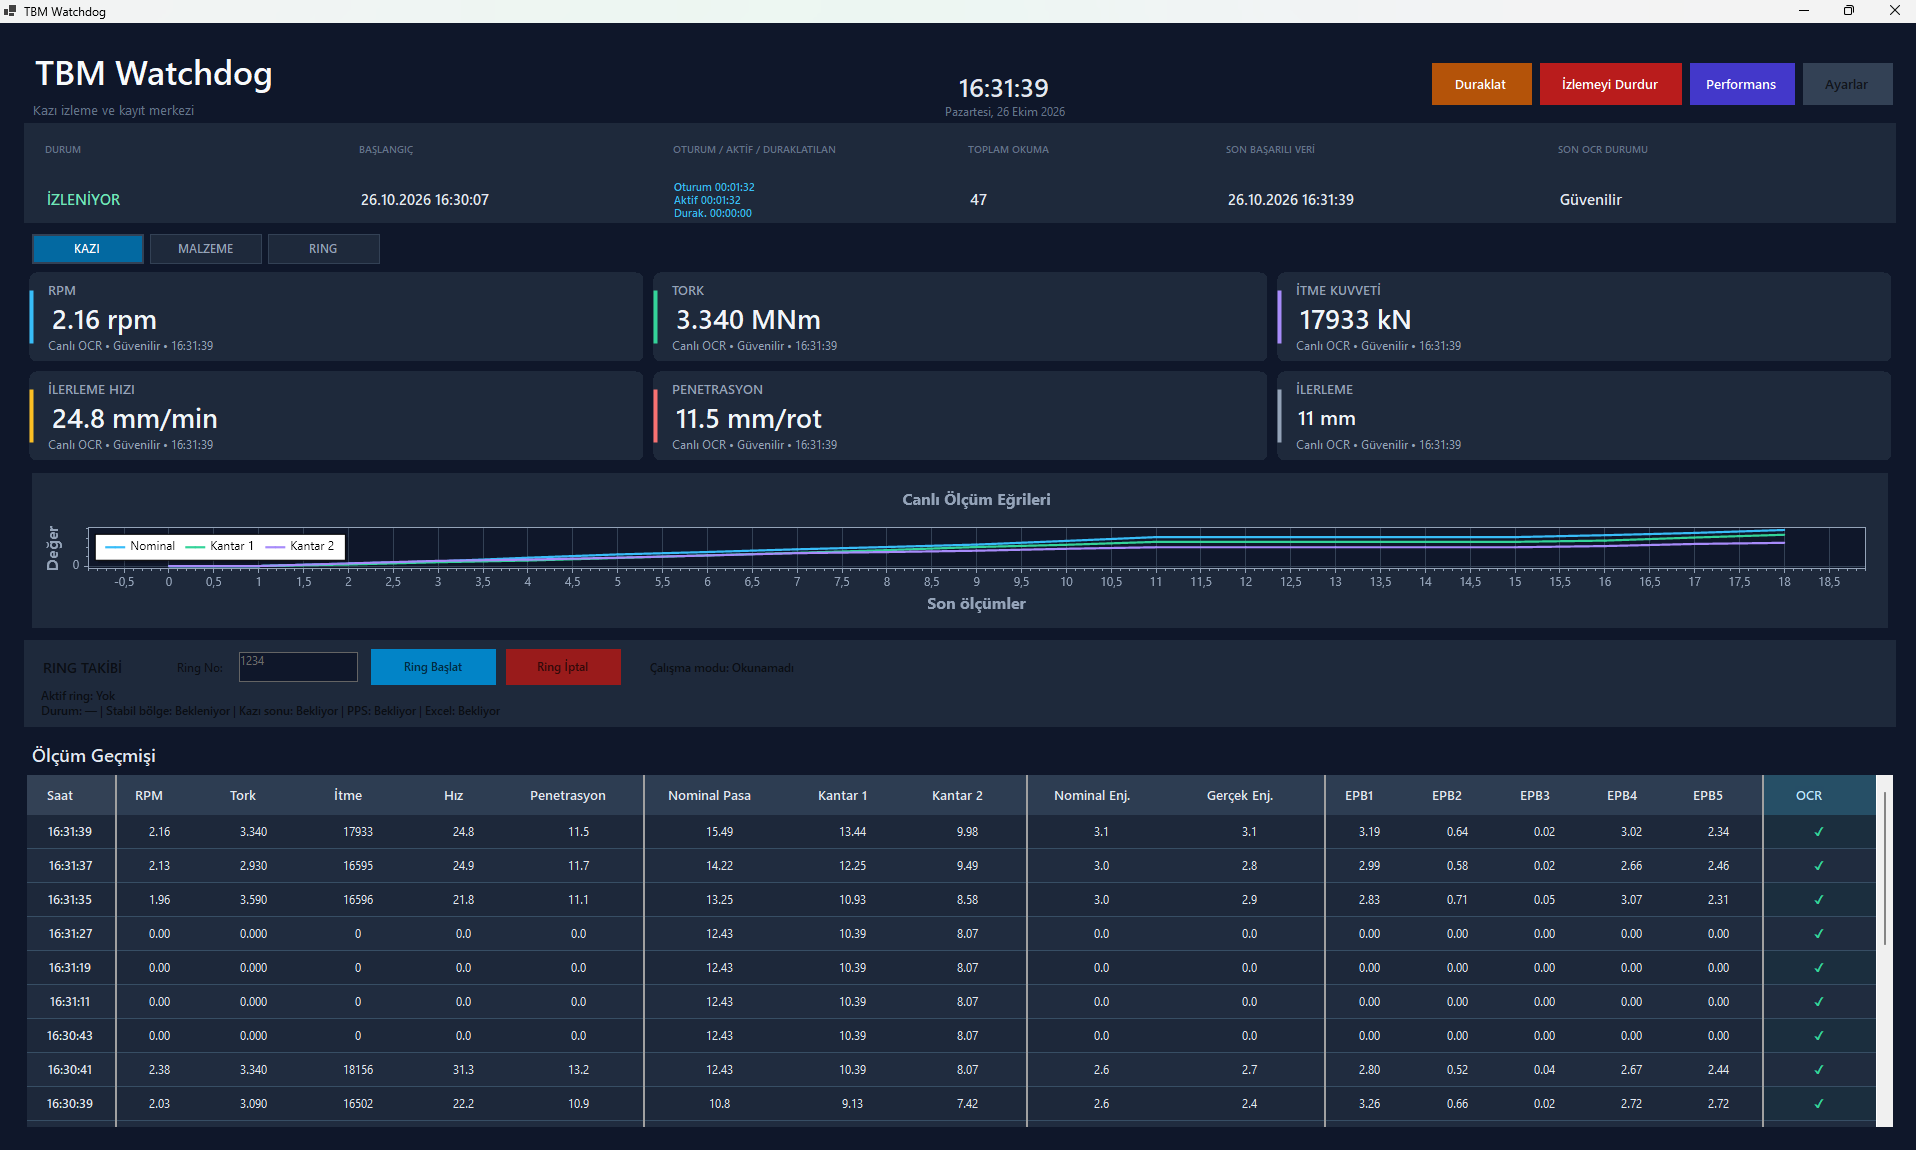
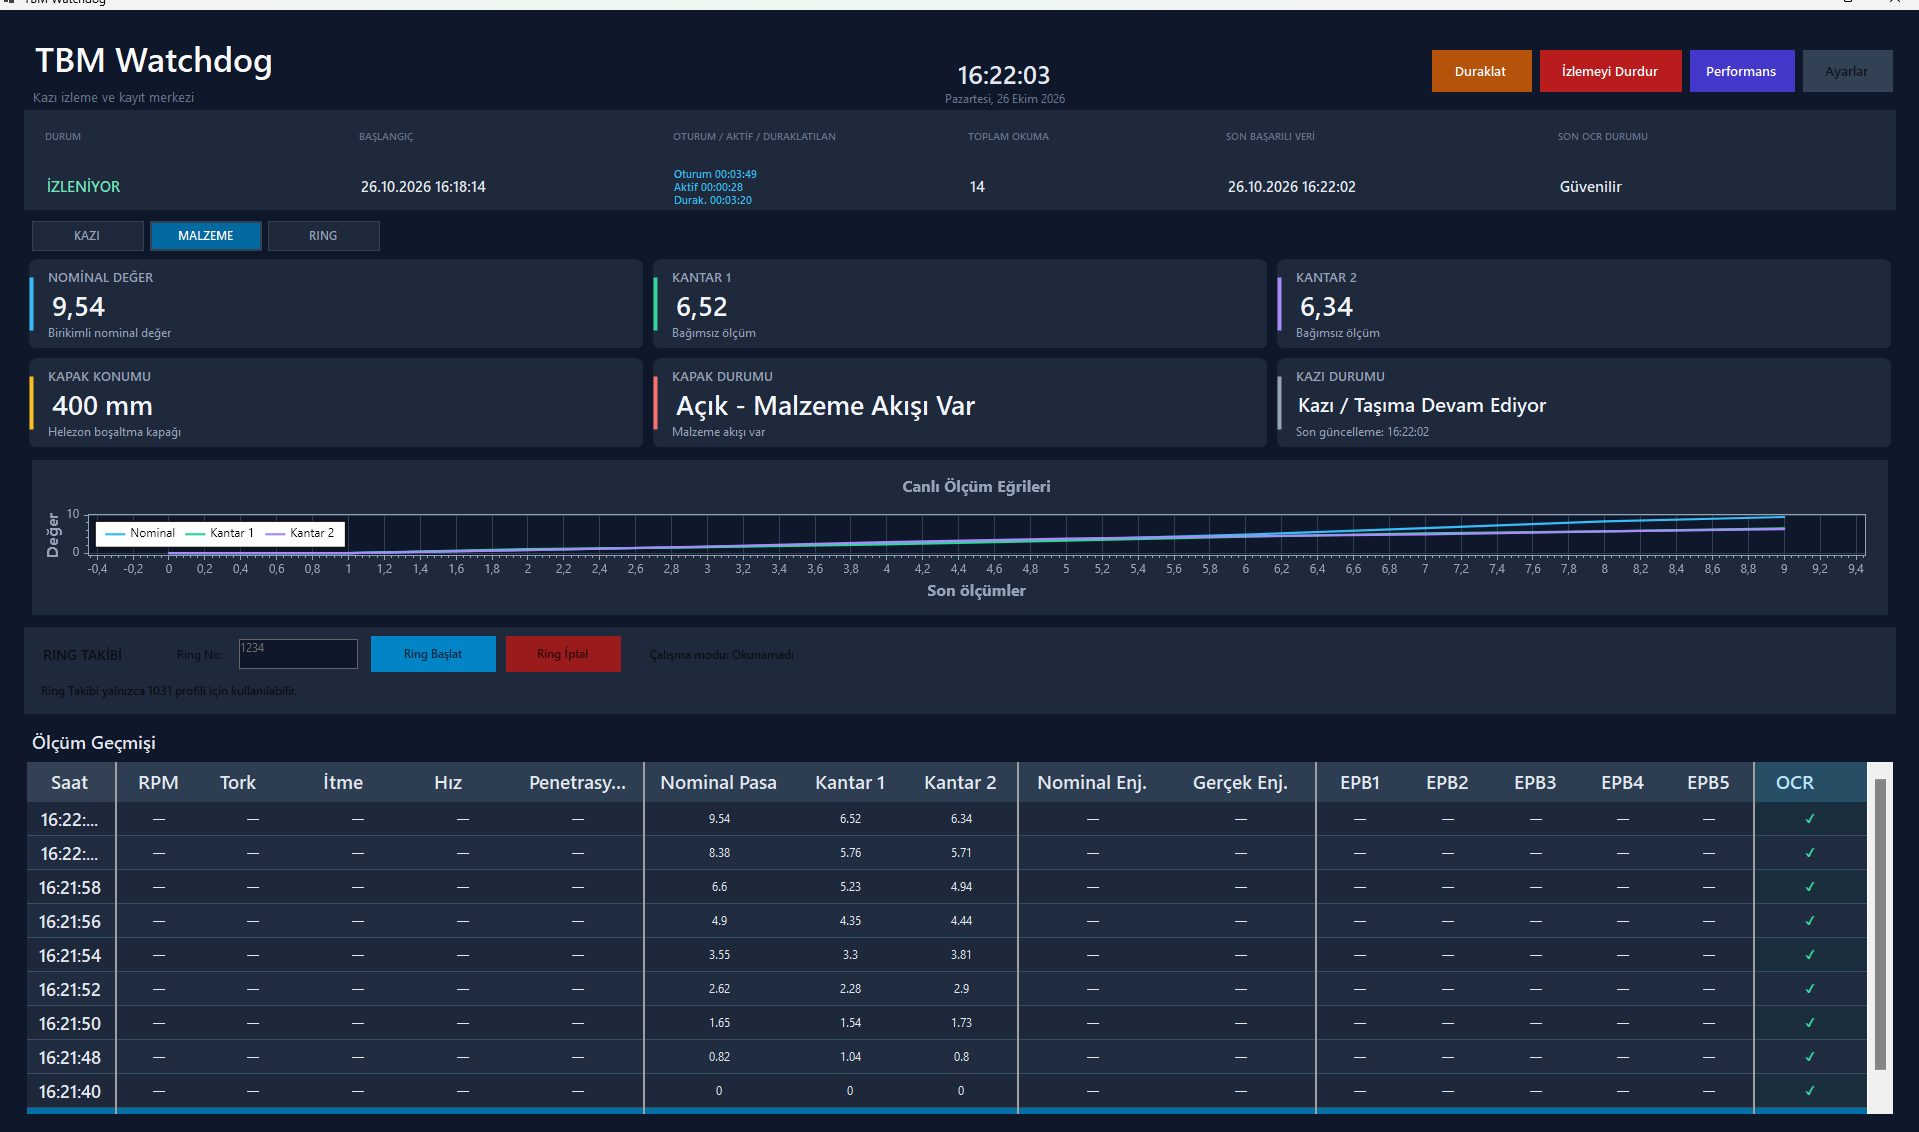
Update README and project screenshots

diff --git a/README.md b/README.md
@@ -2,34 +2,53 @@
 
 **Industrial TBM Monitoring & OCR-Based Data Acquisition**
 
-TBMWatchdog is a Windows desktop application developed with **C# / .NET 8 and Windows Forms** to monitor Tunnel Boring Machine (TBM) operational measurements. It includes configurable screen-region capture, Tesseract-based OCR, measurement validation, live dashboards, history tables, charting and CSV export.
+TBMWatchdog is a Windows desktop application developed with **C# / .NET 8 and Windows Forms** for monitoring Tunnel Boring Machine (TBM) operating measurements. It combines configurable screen capture, Tesseract-based OCR, measurement processing and validation, dashboard visualizations, historical measurements, and CSV reporting.
 
-> **Demo notice:** Screenshots may show synthetic simulation values. Demo values are not measurements from an operating TBM, and simulated readings do not demonstrate real OCR performance.
+> **Demo notice:** The screenshots below may show synthetic demo measurements. These are not readings from an operating TBM. The offline demo demonstrates the application interface and data processing pipeline, not the measured accuracy of real-world OCR.
 
-## Highlights
+## Features
 
-- **Excavation dashboard:** RPM, torque, thrust force, advance speed, penetration and advance distance.
-- **Material monitoring:** Independent nominal, scale 1 and scale 2 readings; gate position and material-flow status.
-- **OCR workflow:** Screen capture, configurable regions, OCR preview, confidence indicators and validation.
-- **Live visualization:** Dashboard cards, measurement history and updating charts.
-- **Operations:** CSV records, logging, settings and performance/health window.
-- **Offline demo:** Synthetic measurements can be displayed without a live TBM connection.
-
-## Technologies
-
-C# · .NET 8 · Windows Forms · Tesseract OCR · ScottPlot · OpenTK · JSON · CSV · Git/GitHub
+- **Excavation monitoring:** RPM, torque, thrust force, penetration, advance speed, and advance distance.
+- **Material monitoring:** Separate nominal, scale 1 and scale 2 values, gate position and material flow status.
+- **OCR pipeline:** Configurable screen regions, Tesseract OCR and measurement reliability indicators.
+- **Data visualization:** Live dashboard cards, charts and tabular measurement history.
+- **Operational tooling:** CSV output, application logging, settings, monitoring sessions and health/performance panel.
+- **Offline demo:** Synthetic data source for presenting the application without a live TBM screen.
 
 ## Screenshots
 
-The following images are provided for demonstration and may show simulated readings.
+### Excavation monitoring — simulated data
 
-![TBMWatchdog monitoring screenshot](docs/screenshots/material-monitoring.png)
+![Excavation dashboard showing simulated readings](docs/screenshots/excavation-dashboard.png)
 
-![Additional TBMWatchdog screenshot](docs/screenshots/material-monitoring-2.png)
+### Material monitoring — simulated data
 
-## Run locally
+![Material tracking dashboard showing simulated readings](docs/screenshots/material-monitoring.png)
 
-**Requirements:** Windows 10/11 and .NET 8 SDK (Windows desktop workload). Restore packages and run from the directory containing `TBMWatchdog.csproj`:
+### Settings and screen-region configuration
+
+![Settings panel](docs/screenshots/settings-panel.png)
+
+### Performance and health monitoring
+
+![Performance and health window](docs/screenshots/performance-monitoring.png)
+
+*In offline demo mode the performance screen may show zero real OCR operations.*
+
+## Technology stack
+
+- **Language / framework:** C#, .NET 8, Windows Forms
+- **OCR:** Tesseract
+- **Visualization:** ScottPlot
+- **Additional libraries:** OpenTK
+- **Data and diagnostics:** JSON, CSV, application logs
+- **Version control:** Git, GitHub
+
+## Build and run
+
+**Requirements:** Windows 10/11 and the .NET 8 SDK with Windows desktop development support.
+
+From the directory containing `TBMWatchdog.csproj`:
 
 ```powershell
 dotnet restore .\TBMWatchdog.csproj
@@ -37,18 +56,21 @@ dotnet build .\TBMWatchdog.csproj
 dotnet run --project .\TBMWatchdog.csproj
 ```
 
-For OCR operation, the Tesseract trained-data file must be available under `tessdata/`. Demo mode does not require connecting to a real TBM display.
+For real OCR operation, the required Tesseract language training data should be present under `tessdata` and an appropriate screen region must be configured. In offline demos the application can be presented without an active TBM display.
 
-## Project structure
+## Code organization
 
-- `Forms/` — application windows and settings
-- `Controls/` — dashboard cards and chart components
-- `Models/` — measurements, configuration and OCR data models
-- `Services/` — data sources, monitoring, OCR, CSV, logging and supporting services
-- `Utilities/` — parsing and processing helpers
+- `Controls/`: dashboard components and charts
+- `Forms/`: main dashboard, settings and diagnostics windows
+- `Models/`: measurement records and configuration definitions
+- `Services/`: OCR, monitoring, simulation, storage and related services
+- `Utilities/`: supporting parsing and domain utilities
+
+## Project context
+
+This project demonstrates desktop software engineering, OCR-based data collection, operational data workflows and developer-oriented diagnostics. Its **demo mode** is intended for portfolio demonstrations.
 
 ## Developer
 
-**İclal Çengel** — Computer Engineering & Software Engineering
-
+**İclal Çengel** — Computer Engineer & Software Engineer  
 [GitHub profile](https://github.com/iclalcengel)
